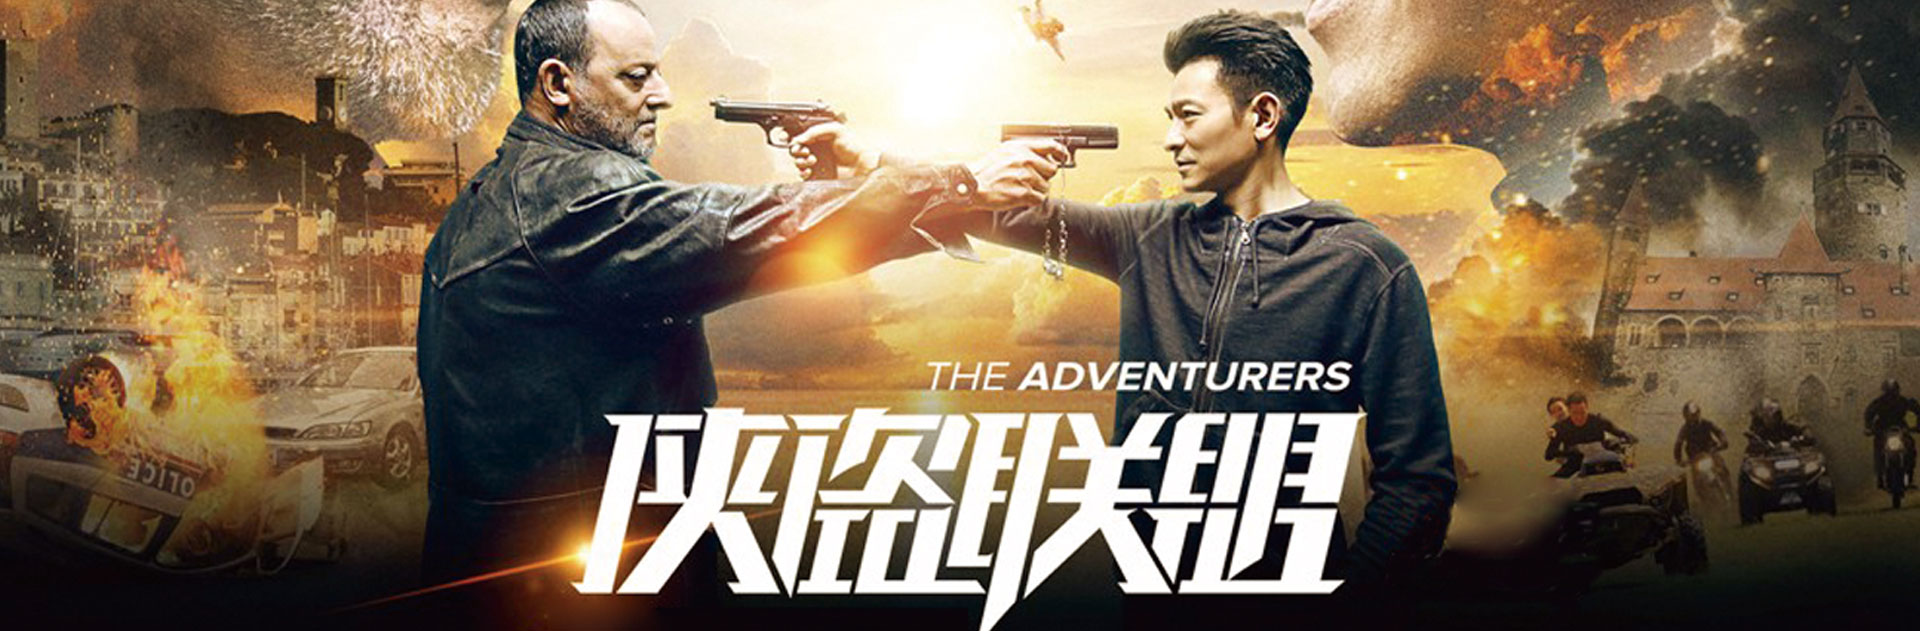
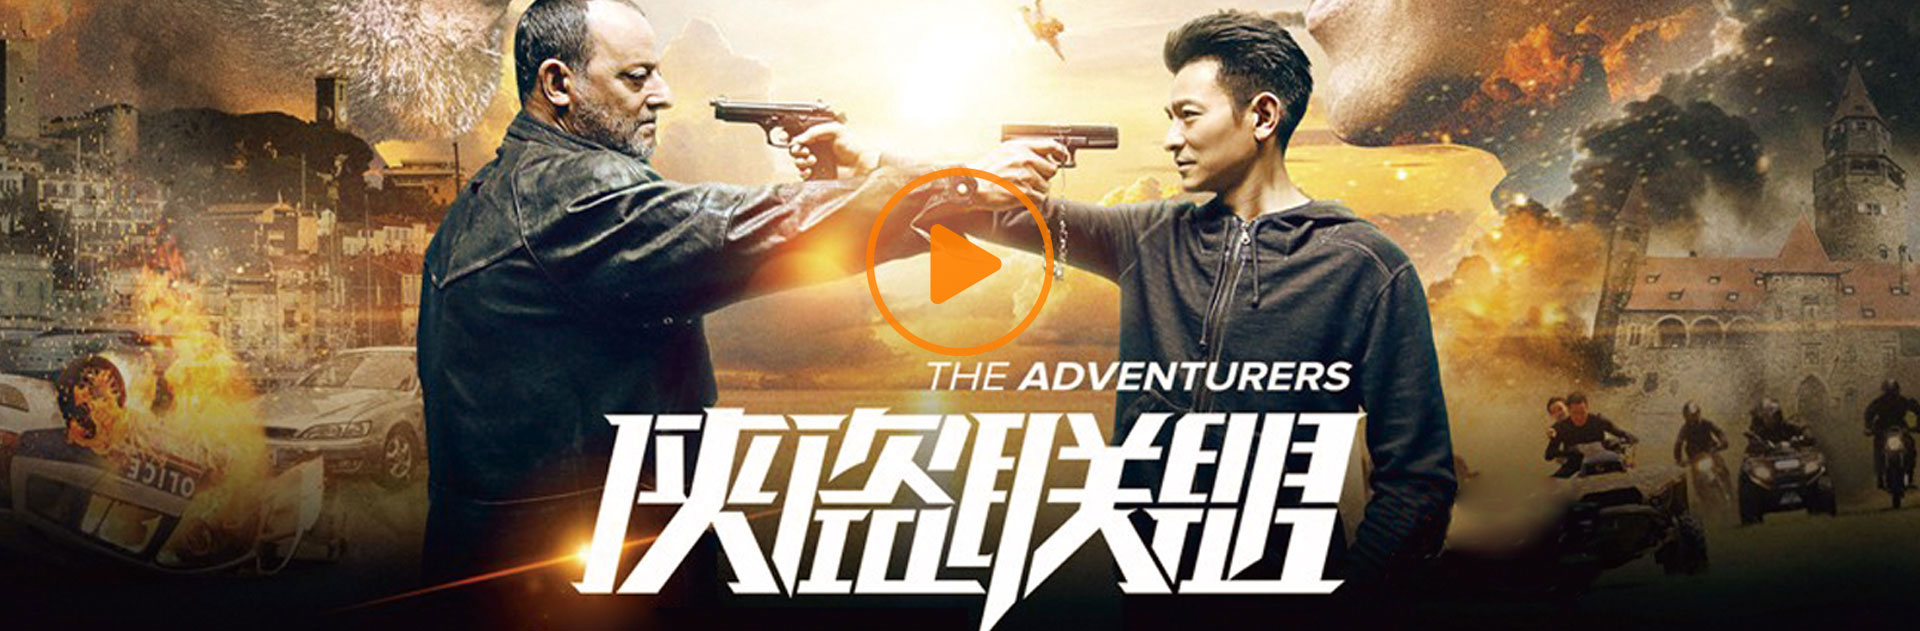
Carson 关于我们修改

Changed region(s): [[0.4375, 0.3011, 0.5625, 0.5119], [0.4688, 0.5119, 0.5312, 0.5721], [0.4688, 0.271, 0.5312, 0.3011]]

diff --git a/us/chs/aboutNewsBanner.html b/us/chs/aboutNewsBanner.html
@@ -44,7 +44,7 @@
             <div class="item active">
                 <img src="../shared/images/about/thumbnail22.png" alt="" style="width:100%;">
                 <div class="carousel-caption">
-                    <p class="aboutNewsBannerTextMobile title30 mTitle38 pin" style="padding-top:5%;padding-bottom:5%;">
+                    <p class="aboutNewsBannerTextMobile title30 mTitle38 pin" style="padding-top:5%;padding-bottom:5%;border-bottom:0.9vw solid #327fe8;">
                         <span class="sans">iTalkBB</span>蜻蜓强势登陆NBA顶级赛事
                     </p>
                 </div>
@@ -53,7 +53,7 @@
             <div class="item">
                 <img src="../shared/images/about/thumbnail11.png" alt="" style="width:100%;">
                 <div class="carousel-caption">
-                    <p class="aboutNewsBannerTextMobile title30 mTitle38 pin" style="padding-top:5%;padding-bottom:5%;">
+                    <p class="aboutNewsBannerTextMobile title30 mTitle38 pin" style="padding-top:5%;padding-bottom:5%;border-bottom:0.9vw solid #327fe8;">
                         <span class="sans">iTalkBB</span>化蜻蜓，沟通全球华人显决心
                     </p>
                 </div>
@@ -62,7 +62,7 @@
             <div class="item">
                 <img src="../shared/images/about/thumbnailBanner1.jpg" alt="" style="width:100%;">
                 <div class="carousel-caption">
-                    <p class="aboutNewsBannerTextMobile title30 mTitle38 pin" style="padding-top:5%;padding-bottom:5%;">
+                    <p class="aboutNewsBannerTextMobile title30 mTitle38 pin" style="padding-top:5%;padding-bottom:5%;border-bottom:0.9vw solid #327fe8;">
                         未来电视<span class="sans">CEO</span>携管理团队访问<span class="sans">iTalkBB</span>
                     </p>
                 </div>

diff --git a/us/en/aboutNewsBanner.html b/us/en/aboutNewsBanner.html
@@ -44,7 +44,7 @@
             <div class="item active">
                 <img src="../shared/images/about/thumbnail22.png" alt="" style="width:100%;">
                 <div class="carousel-caption">
-                    <p class="aboutNewsBannerTextMobile title30 mTitle38 pin" style="padding-top:5%;padding-bottom:5%;">
+                    <p class="aboutNewsBannerTextMobile title30 mTitle38 pin" style="padding-top:5%;padding-bottom:5%;border-bottom:0.9vw solid #327fe8;">
                         <span class="sans">iTalkBB</span>蜻蜓强势登陆NBA顶级赛事
                     </p>
                 </div>
@@ -53,7 +53,7 @@
             <div class="item">
                 <img src="../shared/images/about/thumbnail11.png" alt="" style="width:100%;">
                 <div class="carousel-caption">
-                    <p class="aboutNewsBannerTextMobile title30 mTitle38 pin" style="padding-top:5%;padding-bottom:5%;">
+                    <p class="aboutNewsBannerTextMobile title30 mTitle38 pin" style="padding-top:5%;padding-bottom:5%;border-bottom:0.9vw solid #327fe8;">
                         iTalkBB Unveils Chinese Name and Logo
                     </p>
                 </div>
@@ -62,7 +62,7 @@
             <div class="item">
                 <img src="../shared/images/about/thumbnailBanner1.jpg" alt="" style="width:100%;">
                 <div class="carousel-caption">
-                    <p class="aboutNewsBannerTextMobile title30 mTitle38 pin" style="padding-top:5%;padding-bottom:5%;">
+                    <p class="aboutNewsBannerTextMobile title30 mTitle38 pin" style="padding-top:5%;padding-bottom:5%;border-bottom:0.9vw solid #327fe8;">
                         ICNTV CEO and Management Team make a U.S. visit with iTalkBB
                     </p>
                 </div>

diff --git a/us/chs/aboutVideos.html b/us/chs/aboutVideos.html
@@ -107,12 +107,12 @@
                         <img src="../shared/images/about/aboutVideoBanner.jpg" class="hideM img w100" alt="">
                         <img src="../shared/images/about/aboutVIdeoMobileBanner.jpg" class="showM img w100" alt="">
 
-                        <div class="aboutNewsBannerText title30 mTitle38 pin hideM" style="display:none;padding-top:1.2%;padding-bottom:1.2%;">
+                        <div class="aboutNewsBannerText title30 mTitle38 pin hideM" style="display:none;padding-top:1.2%;padding-bottom:1.2%;cursor:pointer;">
                             <span class="sans">iTalkBB</span>蜻蜓电影《侠盗联盟》北美首映
                             <span><img src="../shared/images/about/aboutVideoBannerFloat.png" alt="" class="floatImg"></span>
                         </div>
 
-                        <div class="aboutNewsBannerTextMobile title30 mTitle32 pin showM" style="padding-top:3%;padding-bottom:3%;">
+                        <div class="aboutNewsBannerTextMobile title30 mTitle32 pin showM" style="padding-top:3%;padding-bottom:3%;border-bottom:0.9vw solid #327fe8;">
                             <span class="sans">iTalkBB</span>蜻蜓电影《侠盗联盟》北美首映
                             <span><img src="../shared/images/about/aboutVideoBannerFloat.png" alt="" class="floatImg"></span>
                         </div>

diff --git a/us/en/aboutVideos.html b/us/en/aboutVideos.html
@@ -110,12 +110,12 @@
                         <img src="../shared/images/about/aboutVideoBanner.jpg" class="hideM img w100" alt="">
                         <img src="../shared/images/about/aboutVIdeoMobileBanner.jpg" class="showM img w100" alt="">
 
-                        <div class="aboutNewsBannerText title26 mTitle26 pin hideM" style="display:none;padding-top:1.2%;padding-bottom:1.2%;">
+                        <div class="aboutNewsBannerText title30 pin hideM" style="display:none;padding-top:1.2%;padding-bottom:1.2%;cursor:pointer;">
                             <span class="sans">iTalkBB</span> <i>The Adventures</i> Debut in North America
                             <span><img src="../shared/images/about/aboutVideoBannerFloat.png" alt="" class="floatImg"></span>
                         </div>
 
-                        <div class="aboutNewsBannerTextMobile title26 mTitle26 pin showM" style="padding-top:3%;padding-bottom:3%;">
+                        <div class="aboutNewsBannerTextMobile title26 mTitle26 pin showM" style="padding-top:3%;padding-bottom:3%;border-bottom:0.9vw solid #327fe8;">
                             <span class="sans">iTalkBB</span> <i>The Adventures</i> Debut in North America
                             <span><img src="../shared/images/about/aboutVideoBannerFloat.png" alt="" class="floatImg"></span>
                         </div>
